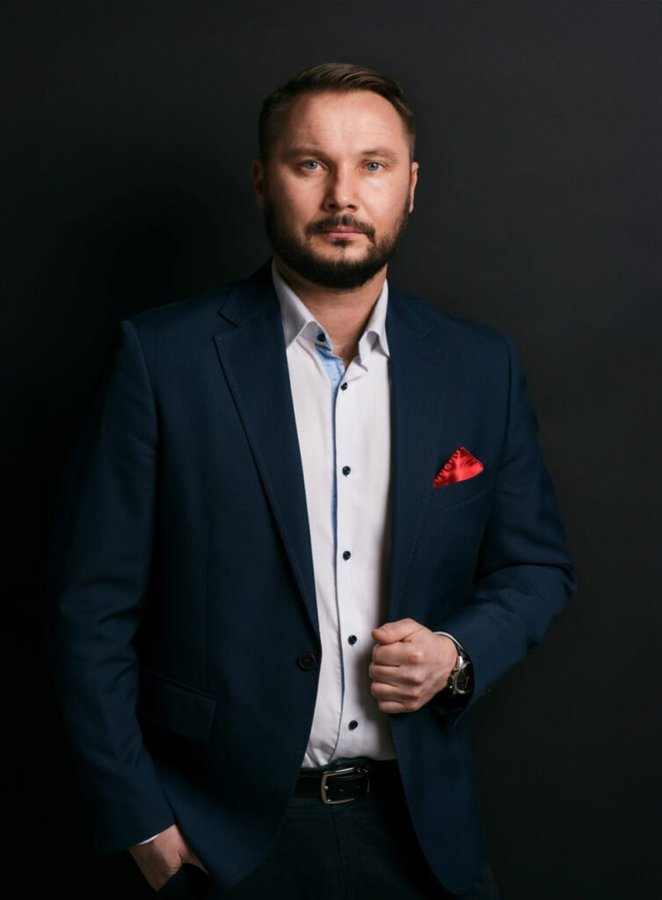
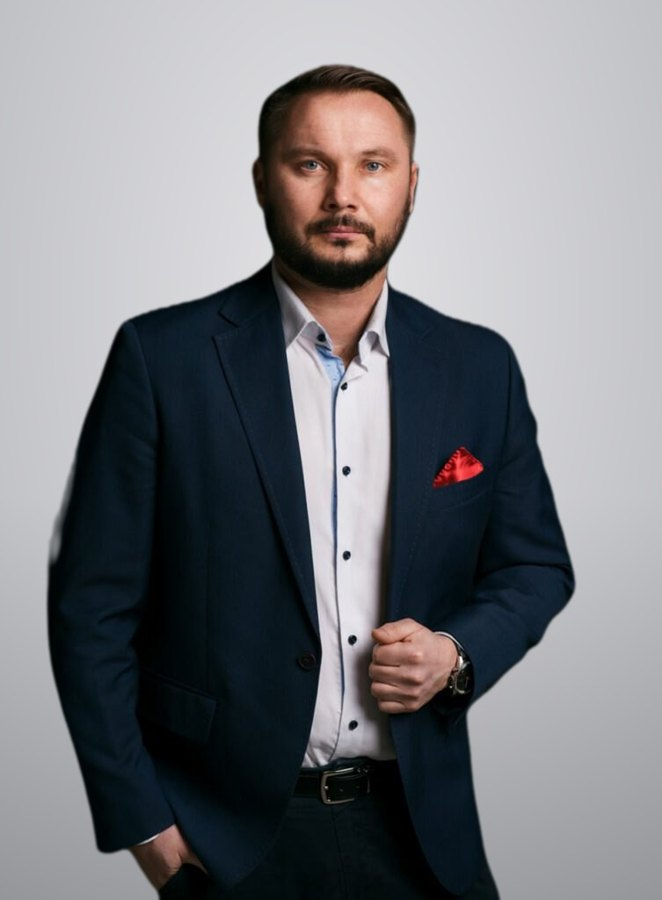
Zdjęcie Marcina na jasnym tle jak zdjęcie Michała
Claude-Session: https://claude.ai/code/session_01P3FunjzXZg2xqPaovLAGa3

diff --git a/index.html b/index.html
@@ -647,7 +647,8 @@ a.spec h3{color:var(--bg)}
 @media (max-width:1024px){.team-card{grid-template-columns:1fr}.team-photo{min-height:0;max-height:520px;aspect-ratio:4/5}}
 
 .team{display:flex;flex-direction:column;gap:28px}
-.team-photo-light{object-position:58% 20%;background:#d9dadb}
+.team-photo-light{background:#d9dadb}
+.team-card:first-child .team-photo-light{object-position:58% 20%}
 .about-right .intro{font-family:var(--serif);font-size:clamp(26px,2.4vw,34px);font-weight:700;letter-spacing:-.02em;line-height:1.2;color:var(--ink)}
 .about-right{padding-top:44px}
 </style>
@@ -789,7 +790,7 @@ a.spec h3{color:var(--bg)}
       </div>
     </div>
     <div class="team-card">
-      <picture><source srcset="/img/marcin-otreba.webp" type="image/webp"><img class="team-photo" src="/img/marcin-otreba.jpg" alt="Marcin Otręba, doradca podatkowy, Wrocław" width="662" height="900" loading="lazy"></picture>
+      <picture><source srcset="/img/marcin-otreba.webp" type="image/webp"><img class="team-photo team-photo-light" src="/img/marcin-otreba.jpg" alt="Marcin Otręba, doradca podatkowy, Wrocław" width="662" height="900" loading="lazy"></picture>
       <div class="team-body">
         <span class="advisor-role">Doradca Podatkowy</span>
         <h3 class="team-name">Marcin Otręba</h3>
